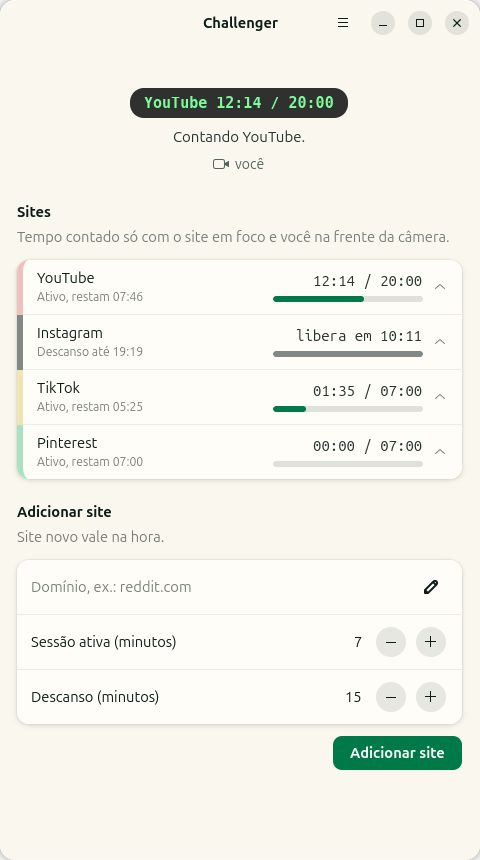
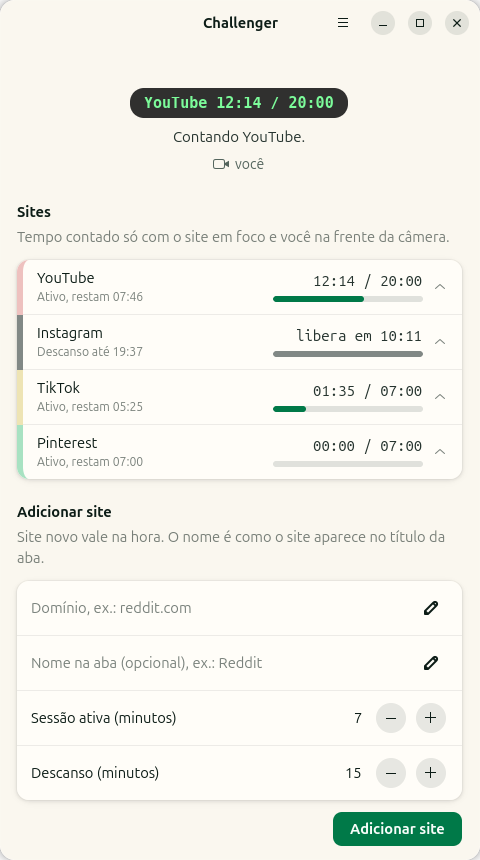
Revisão da janela: gravação adiada por site, refresh não desfaz cliques, nome na aba ao adicionar

diff --git a/challenger/gui.py b/challenger/gui.py
@@ -136,13 +136,16 @@ class SiteRow(Adw.ExpanderRow):
             self.win.edit(self.key, int(self.session.get_value()), int(self.rest.get_value()))
 
     def set_rule(self, wanted: dict | None) -> None:
-        if wanted and not (self.session.has_focus() or self.rest.has_focus()):
+        """Mostra a regra pedida, mas não por cima do que o usuário está mexendo: com o foco
+        num dos campos (o foco fica no texto de dentro) ou com gravação ainda pendente."""
+        typing = any(w.get_state_flags() & Gtk.StateFlags.FOCUS_WITHIN for w in (self.session, self.rest))
+        if wanted and not typing and self.key not in self.win.saves:
             self._loading = True
             self.session.set_value(wanted["session_minutes"])
             self.rest.set_value(wanted["rest_minutes"])
             self._loading = False
 
-    def update(self, st: engine.SiteStatus, change: str | None, wanted: dict | None) -> None:
+    def update(self, st: engine.SiteStatus, change: str | None, wanted: dict | None, today: dict) -> None:
         self.set_title(st.name)
         if st.resting:
             until = time.strftime("%H:%M", time.localtime(st.rest_until))
@@ -165,7 +168,7 @@ class SiteRow(Adw.ExpanderRow):
             self.pending.set_subtitle(f"A partir de amanhã: sessão de {wanted['session_minutes']} min, "
                                       f"descanso de {wanted['rest_minutes']} min")
         self.remove_btn.set_sensitive(change != "removida")
-        self.set_rule(wanted)
+        self.set_rule(wanted or today)
 
 
 class Window(Adw.ApplicationWindow):
@@ -173,7 +176,8 @@ class Window(Adw.ApplicationWindow):
         super().__init__(application=app, title=store.APP_NAME, default_width=480, default_height=860)
         self.config = store.load_config()
         self.rows: dict[str, SiteRow] = {}
-        self._save_source = 0
+        self.saves: dict[str, tuple[int, object]] = {}  # site -> (timer, gravar): edição esperando o fim dos cliques
+        self.connect("close-request", self._flush)
 
         self.banner_daemon = Adw.Banner(title="O contador está parado: nada está sendo contado.",
                                         button_label="Iniciar")
@@ -224,18 +228,20 @@ class Window(Adw.ApplicationWindow):
         return group
 
     def _build_add(self) -> Adw.PreferencesGroup:
-        group = Adw.PreferencesGroup(title="Adicionar site", description="Site novo vale na hora.")
+        group = Adw.PreferencesGroup(
+            title="Adicionar site", description="Site novo vale na hora. O nome é como o site aparece no título da aba.")
         self.add_domain = Adw.EntryRow(title="Domínio, ex.: reddit.com")
         self.add_domain.set_input_purpose(Gtk.InputPurpose.URL)
         self.add_domain.connect("entry-activated", self._add)
         self.add_domain.connect("changed", lambda *_: self._add_error(""))
+        self.add_name = Adw.EntryRow(title="Nome na aba (opcional), ex.: Reddit")
         self.add_session = Adw.SpinRow.new_with_range(1, 1440, 1)
         self.add_session.set_title("Sessão ativa (minutos)")
         self.add_session.set_value(7)
         self.add_rest = Adw.SpinRow.new_with_range(1, 1440, 1)
         self.add_rest.set_title("Descanso (minutos)")
         self.add_rest.set_value(15)
-        for row in (self.add_domain, self.add_session, self.add_rest):
+        for row in (self.add_domain, self.add_name, self.add_session, self.add_rest):
             group.add(row)
         self.add_message = Gtk.Label(xalign=0, wrap=True, margin_top=10, visible=False)
         self.add_message.add_css_class("error-text")
@@ -259,26 +265,40 @@ class Window(Adw.ApplicationWindow):
         self.refresh()
 
     def edit(self, key: str, session: int, rest: int) -> None:
-        if self._save_source:
-            GLib.source_remove(self._save_source)
+        """Grava a regra pedida para um site, SAVE_DELAY_MS depois do último clique nele."""
+        self._cancel(key)
 
         def save():
-            self._save_source = 0
-            wanted = engine.rules_wanted(store.load_config())
-            rule = wanted.get(key) or engine.rules_today(self.config, self._today())[key]
+            self.saves.pop(key, None)
+            config = store.load_config()
+            wanted = engine.rules_wanted(config)
+            rule = wanted.get(key) or engine.rules_today(config, self._today())[key]
             wanted[key] = {**rule, "session_minutes": session, "rest_minutes": rest}
             self._apply(wanted, "Regra nova vale a partir de amanhã.")
             return False
 
-        self._save_source = GLib.timeout_add(SAVE_DELAY_MS, save)
+        self.saves[key] = (GLib.timeout_add(SAVE_DELAY_MS, save), save)
+
+    def _cancel(self, key: str) -> None:
+        if key in self.saves:
+            GLib.source_remove(self.saves.pop(key)[0])
+
+    def _flush(self, *_) -> bool:
+        """Fechar a janela grava na hora o que ainda esperava."""
+        for key in list(self.saves):
+            GLib.source_remove(self.saves[key][0])
+            self.saves[key][1]()
+        return False
 
     def remove(self, key: str) -> None:
+        self._cancel(key)
         wanted = engine.rules_wanted(store.load_config())
         wanted.pop(key, None)
         self._apply(wanted, "O site sai da lista amanhã, à meia-noite.")
 
     def undo(self, key: str) -> None:
         """Volta o pedido de mudança desse site para a regra de hoje."""
+        self._cancel(key)
         config = store.load_config()
         wanted, today = engine.rules_wanted(config), engine.rules_today(config, self._today())
         wanted[key] = today[key]
@@ -299,8 +319,10 @@ class Window(Adw.ApplicationWindow):
             self._add_error(f"{domain} já está na lista. Para mudar a regra, abra o site na lista acima.")
             return
         wanted = engine.rules_wanted(config)
-        wanted[domain] = engine.new_rule(domain, int(self.add_session.get_value()), int(self.add_rest.get_value()))
+        wanted[domain] = engine.new_rule(domain, int(self.add_session.get_value()), int(self.add_rest.get_value()),
+                                         self.add_name.get_text())
         self.add_domain.set_text("")
+        self.add_name.set_text("")
         self._apply(wanted, f"{domain} adicionado. Já está valendo.")
 
     def _start_daemon(self, *_):
@@ -325,7 +347,8 @@ class Window(Adw.ApplicationWindow):
             if key not in self.rows:
                 self.rows[key] = SiteRow(self, key, i % 7)
                 self.sites_group.add(self.rows[key])
-            self.rows[key].update(engine.status(rules, state["sites"], key, now), changes.get(key), wanted.get(key))
+            self.rows[key].update(engine.status(rules, state["sites"], key, now), changes.get(key), wanted.get(key),
+                                  rules[key])
 
         focus = live.get("focus") if running else None
         site = engine.status(rules, state["sites"], focus, now) if focus in rules else None

diff --git a/tests/gui_check.py b/tests/gui_check.py
@@ -33,6 +33,14 @@ def check(cond, what):
         failures.append(what)
 
 
+def iter_children(w):
+    child = w.get_first_child()
+    while child:
+        yield child
+        yield from iter_children(child)
+        child = child.get_next_sibling()
+
+
 def pump(seconds=0.3):
     ctx, end = GLib.MainContext.default(), time.monotonic() + seconds
     while time.monotonic() < end:
@@ -58,6 +66,30 @@ class App(gui.App):
         check(not win.banner_focus.get_revealed(), "sem aviso de extensão (Maverick respondeu)")
         check(not win.banner_pending.get_revealed(), "sem pendência no começo")
 
+        # cinco cliques no + da sessão, atravessando o refresh de 1 s: grava 25, não menos
+        spin = next(w for w in iter_children(yt.session) if isinstance(w, Gtk.SpinButton))
+        for _ in range(5):
+            spin.spin(Gtk.SpinType.STEP_FORWARD, 1)
+            pump(0.3)
+        pump(1.2)
+        cfg = store.load_config()
+        check(engine.rules_wanted(cfg)["youtube.com"]["session_minutes"] == 25,
+              f"5 cliques no + gravam 25 ({engine.rules_wanted(cfg)['youtube.com']['session_minutes']})")
+        # dois sites editados em seguida: os dois ficam
+        win.edit("youtube.com", 30, 240)
+        win.edit("instagram.com", 7, 30)
+        pump(1.2)
+        wanted = engine.rules_wanted(store.load_config())
+        check(wanted["youtube.com"]["session_minutes"] == 30 and wanted["instagram.com"]["rest_minutes"] == 30,
+              "duas edições seguidas em sites diferentes ficam")
+        # remover logo depois de editar: a remoção vence
+        win.edit("pinterest.com", 9, 15)
+        win.remove("pinterest.com")
+        pump(1.2)
+        check("pinterest.com" not in engine.rules_wanted(store.load_config()), "remover logo depois de editar remove")
+        win.undo("pinterest.com")
+        win.undo("instagram.com")
+        pump(0.3)
         # editar regra: vale só amanhã
         yt.session.set_value(45)
         pump(1.2)
@@ -79,6 +111,13 @@ class App(gui.App):
         check("tiktok.com" in engine.rules_today(cfg, today), "TikTok continua hoje")
         check("tiktok.com" not in engine.rules_today(cfg, engine.next_day(today)), "TikTok sai amanhã")
         check("Sai da lista amanhã" in win.rows["tiktok.com"].get_subtitle(), "linha avisa a remoção")
+        tt = win.rows["tiktok.com"]
+        pump(1.2)
+        check((tt.session.get_value(), tt.rest.get_value()) == (7, 15), "site com remoção pendente mostra a regra de hoje")
+        # fechar a janela logo depois de editar grava a edição
+        win.edit("instagram.com", 8, 15)
+        win._flush()
+        check(engine.rules_wanted(store.load_config())["instagram.com"]["session_minutes"] == 8, "fechar grava a edição pendente")
 
         # adicionar: domínio inválido, repetido e válido
         win.add_domain.set_text("isso não é site")
@@ -88,6 +127,7 @@ class App(gui.App):
         win._add()
         check("já está na lista" in win.add_message.get_text(), "erro de site repetido")
         win.add_domain.set_text("https://www.Reddit.com/r/brasil")
+        win.add_name.set_text("Reddit")
         win.add_session.set_value(5)
         win.add_rest.set_value(30)
         win._add()
